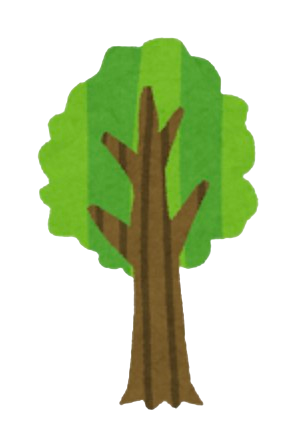
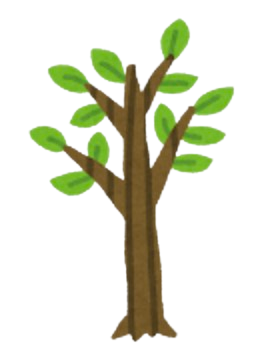
なんかロジック変えたけど意味なかったわ

Changed region(s): [[0.0882, 0.0302, 0.8824, 0.9973]]

diff --git a/app/forest/components/Tree.jsx b/app/forest/components/Tree.jsx
@@ -81,7 +81,38 @@ export default function Tree({ shop }) {
   );
 }
 
+
+
+
+
 // 成長度を計算する関数
 function calculateGrowth(shop) {
-  return shop.inputs + shop.posts * 2 + shop.mediaMentions * 3;
+  // Ensure all inputs are numbers and handle undefined/null values
+  const inputs = Number(shop.inputs) || 0;
+  const posts = Number(shop.posts) || 0;
+  const mediaMentions = Number(shop.mediaMentions) || 0;
+  const likes = Number(shop.likes) || 0;
+
+  // Weighted calculation based on logarithmic values
+  const logPosts = Math.log(posts + 1);
+  const logInputs = Math.log(inputs + 1);
+  const logLikes = Math.log(likes + 1);
+
+  // Score calculation based on defined weights
+  const score =
+    0.4 * logPosts + 0.3 * logInputs + 0.2 * mediaMentions + 0.1 * logLikes;
+
+  // Normalizing the score to a 9-level maturity scale
+  const minScore = 0; // Assuming all values are 0
+  const maxScore =
+    0.4 * Math.log(100 + 1) + // Hypothetical max posts
+    0.3 * Math.log(1000 + 1) + // Hypothetical max inputs
+    0.2 * 1 + // Max media mentions (1)
+    0.1 * Math.log(1000 + 1); // Hypothetical max likes
+
+  const maturityLevel = Math.ceil(
+    ((score - minScore) / (maxScore - minScore)) * 9
+  );
+
+  return maturityLevel;
 }
